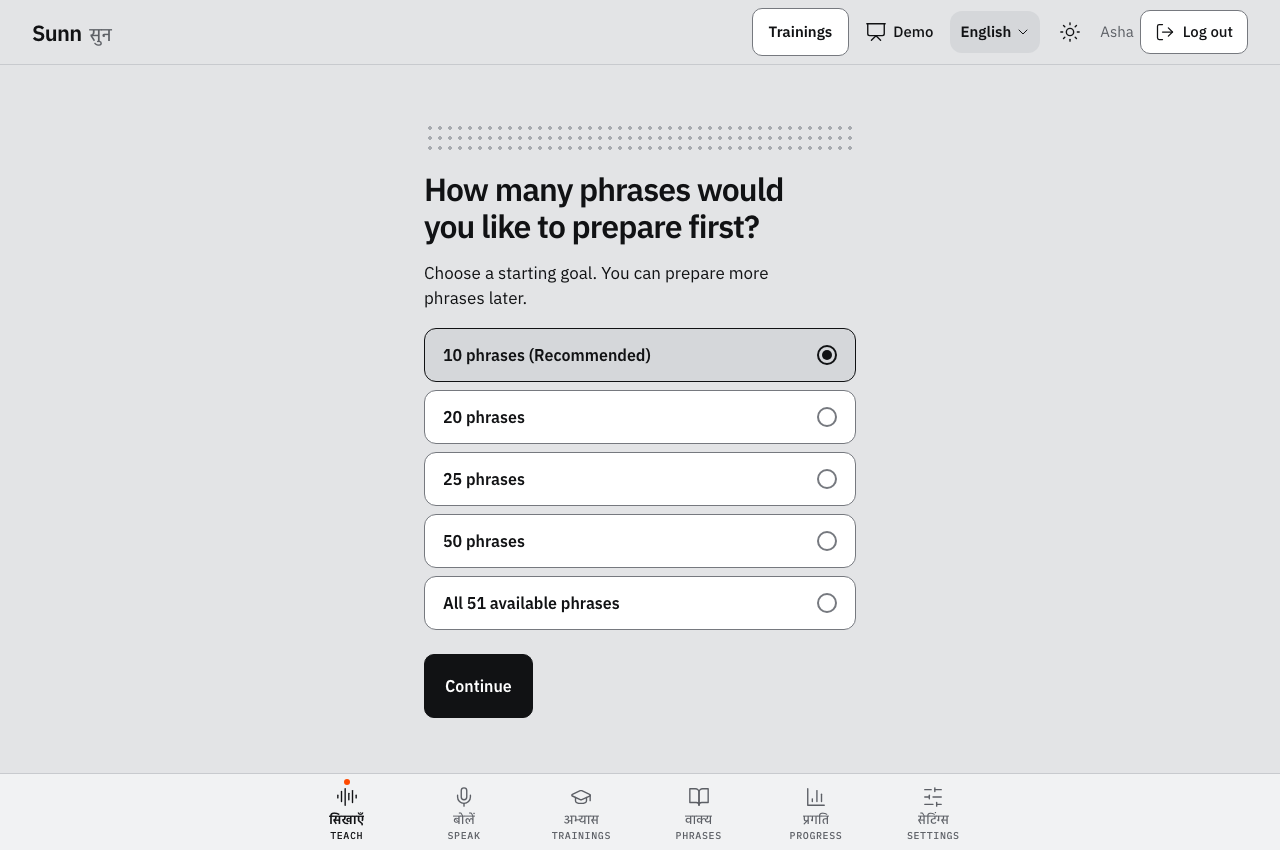
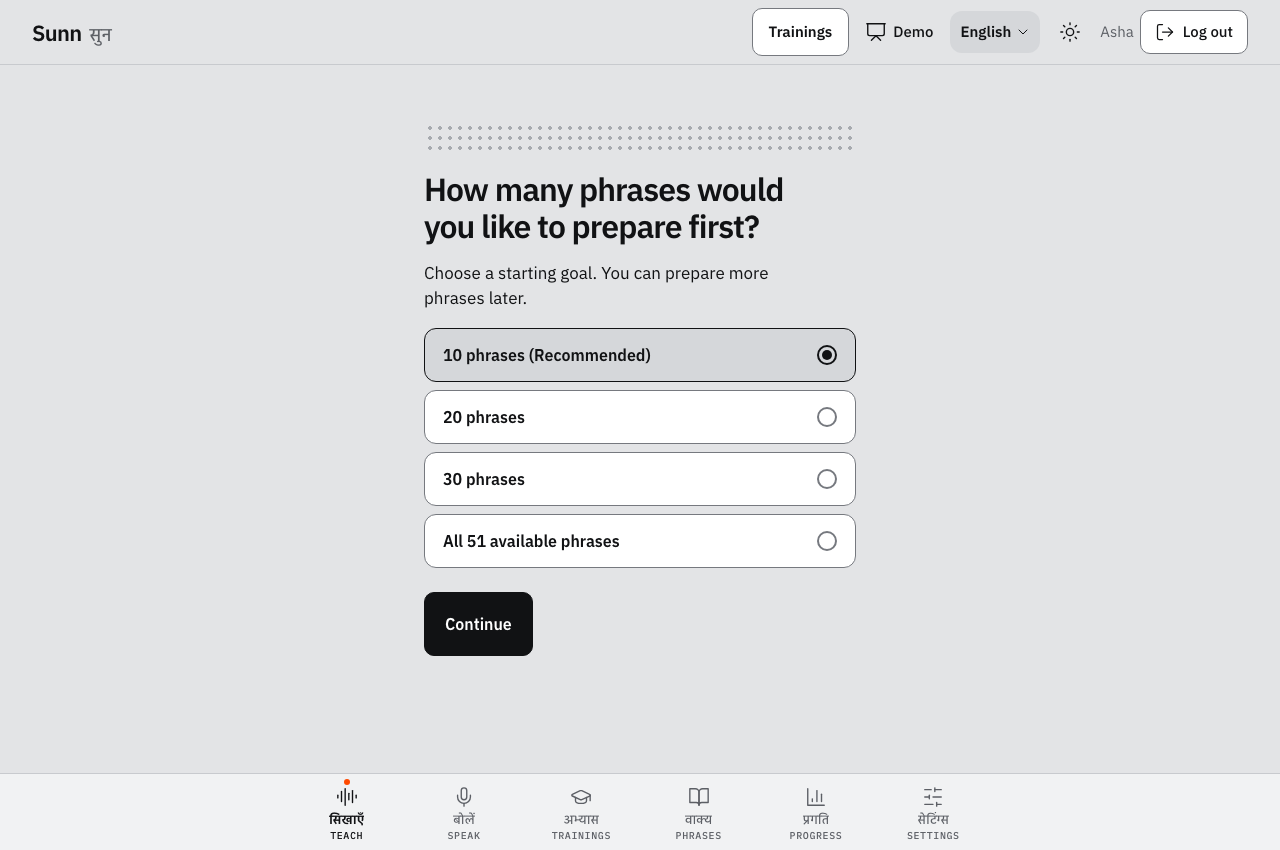
Streamline phrase goal options to 4 clean buttons

Changed region(s): [[0.3125, 0.6729, 0.6875, 0.8565], [0.3438, 0.6118, 0.5, 0.6424], [0.3438, 0.5506, 0.375, 0.5812]]

diff --git a/web/e2e/phrase_goal.spec.js b/web/e2e/phrase_goal.spec.js
@@ -68,19 +68,19 @@ test.describe('dynamic phrase onboarding goal', () => {
     await page.getByText(t('en', 'enroll.goalChange')).click()
     await expect(page.getByRole('heading', { name: t('en', 'enroll.goalTitle') })).toBeVisible()
 
-    // Select 25
-    await page.getByRole('radio', { name: t('en', 'enroll.goalCount', { count: 25 }) }).click()
+    // Select 30
+    await page.getByRole('radio', { name: t('en', 'enroll.goalCount', { count: 30 }) }).click()
     await page.getByRole('button', { name: t('en', 'enroll.goalContinue') }).click()
 
-    // Now Teach shows 0 / 25
-    await expect(page.getByText('0 / 25')).toBeVisible()
-    await expect(page.getByText(t('en', 'enroll.step', { n: 1, total: 25 }))).toBeVisible()
+    // Now Teach shows 0 / 30
+    await expect(page.getByText('0 / 30')).toBeVisible()
+    await expect(page.getByText(t('en', 'enroll.step', { n: 1, total: 30 }))).toBeVisible()
 
     // Verify in Settings page
     await page.goto('/app/settings')
     await expect(page.getByRole('heading', { name: t('en', 'settings.phraseGoalTitle') })).toBeVisible()
-    const radio25 = page.getByRole('radio', { name: t('en', 'enroll.goalCount', { count: 25 }) })
-    await expect(radio25).toHaveAttribute('aria-checked', 'true')
+    const radio30 = page.getByRole('radio', { name: t('en', 'enroll.goalCount', { count: 30 }) })
+    await expect(radio30).toHaveAttribute('aria-checked', 'true')
   })
 
   test('Scenario D: goal completion unlocks Speak mode and offers Prepare more phrases', async ({ page }) => {

diff --git a/web/src/quickstart.test.js b/web/src/quickstart.test.js
@@ -3,14 +3,14 @@ import { test } from 'node:test'
 import { getGoalOptions, getTargetPhrases, speakProgress, NEEDED } from './quickstart.js'
 
 test('getGoalOptions adapts dynamically to total available phrases', () => {
-  // 51 available phrases (e.g. Hindi default library)
-  assert.deepEqual(getGoalOptions(51), [10, 20, 25, 50, 51])
+  // 51 available phrases (e.g. Hindi default library): 4 clean buttons
+  assert.deepEqual(getGoalOptions(51), [10, 20, 30, 51])
 
   // 18 available phrases
   assert.deepEqual(getGoalOptions(18), [10, 18])
 
-  // Exactly 25 available phrases (no duplicate 25)
-  assert.deepEqual(getGoalOptions(25), [10, 20, 25])
+  // Exactly 30 available phrases (no duplicate 30)
+  assert.deepEqual(getGoalOptions(30), [10, 20, 30])
 
   // 8 available phrases (< 10)
   assert.deepEqual(getGoalOptions(8), [8])

diff --git a/web/src/quickstart.js b/web/src/quickstart.js
@@ -141,7 +141,7 @@ export function quickStart(phrases, language) {
 // Returns user-selectable goal targets adapted dynamically to totalAvailable.
 export function getGoalOptions(totalAvailable) {
   if (!totalAvailable || totalAvailable <= 0) return [10]
-  const steps = [10, 20, 25, 50]
+  const steps = [10, 20, 30]
   const options = []
   for (const s of steps) {
     if (s < totalAvailable) {
